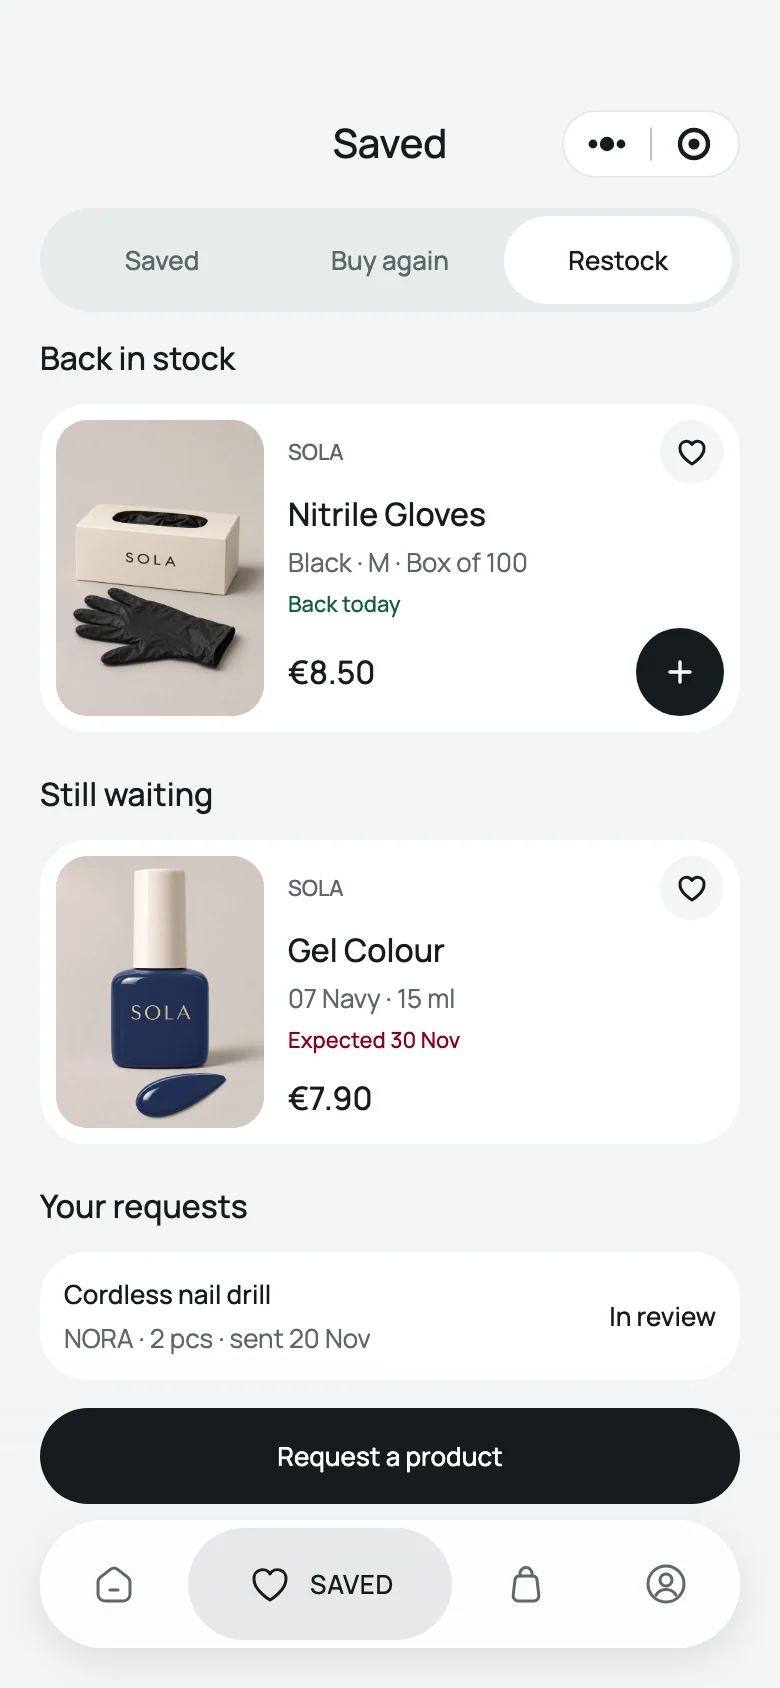
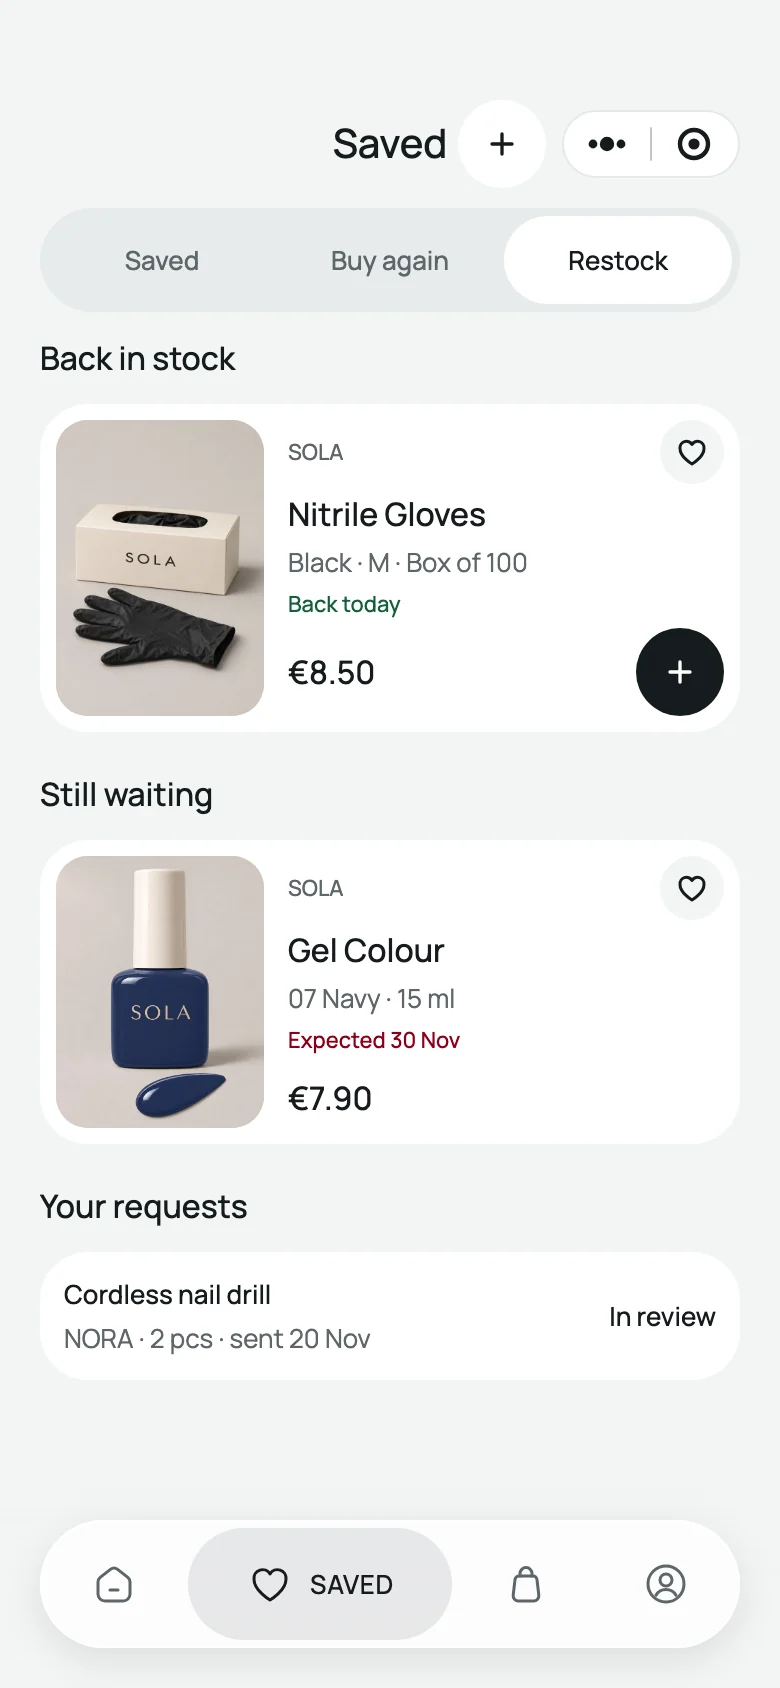
Start a product request from a round plus in the header

Changed region(s): [[0.0308, 0.8318, 0.9538, 0.8934], [0.6154, 0.0616, 0.6462, 0.0924]]

diff --git a/src/app/projects/def-miniprogram-kit/RestockCallouts.tsx b/src/app/projects/def-miniprogram-kit/RestockCallouts.tsx
@@ -8,8 +8,9 @@ const screens: Screen[] = [
     { left: 12, top: 702, width: 366, height: 130, title: 'The tap records the demand', body: 'It is confirmed, and listed in Restock.' },
   ] },
   { shot: 'stock-restock', name: 'Restock tab', marks: [
+    { left: 222, top: 43, width: 58, height: 58, title: 'Not in the store? Tap +', body: 'The request starts from the top right.' },
     { left: 12, top: 380, width: 366, height: 198, flip: true, title: 'Waiting, with a date', body: 'Once back, it moves up, ready to add.' },
-    { left: 12, top: 588, width: 366, height: 168, flip: true, title: 'Not in the store', body: 'Requests and their status sit below.' },
+    { left: 12, top: 590, width: 366, height: 108, flip: true, title: 'Your requests', body: 'Each one shows its status.' },
   ] },
   { shot: 'stock-request', name: 'Request a product', marks: [
     { left: 12, top: 156, width: 366, height: 350, flip: true, title: 'Only the basics', body: 'What it is, brand, link and quantity, sent to the ERP’s request list.' },
